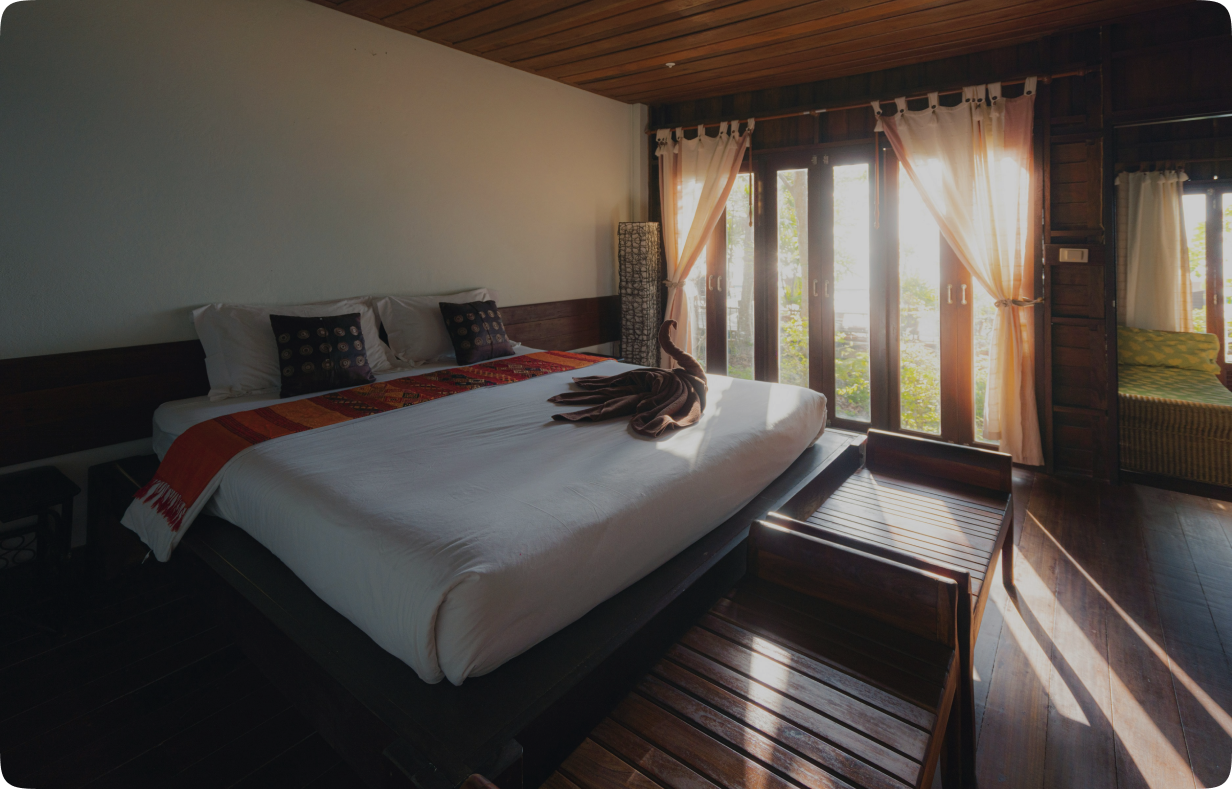
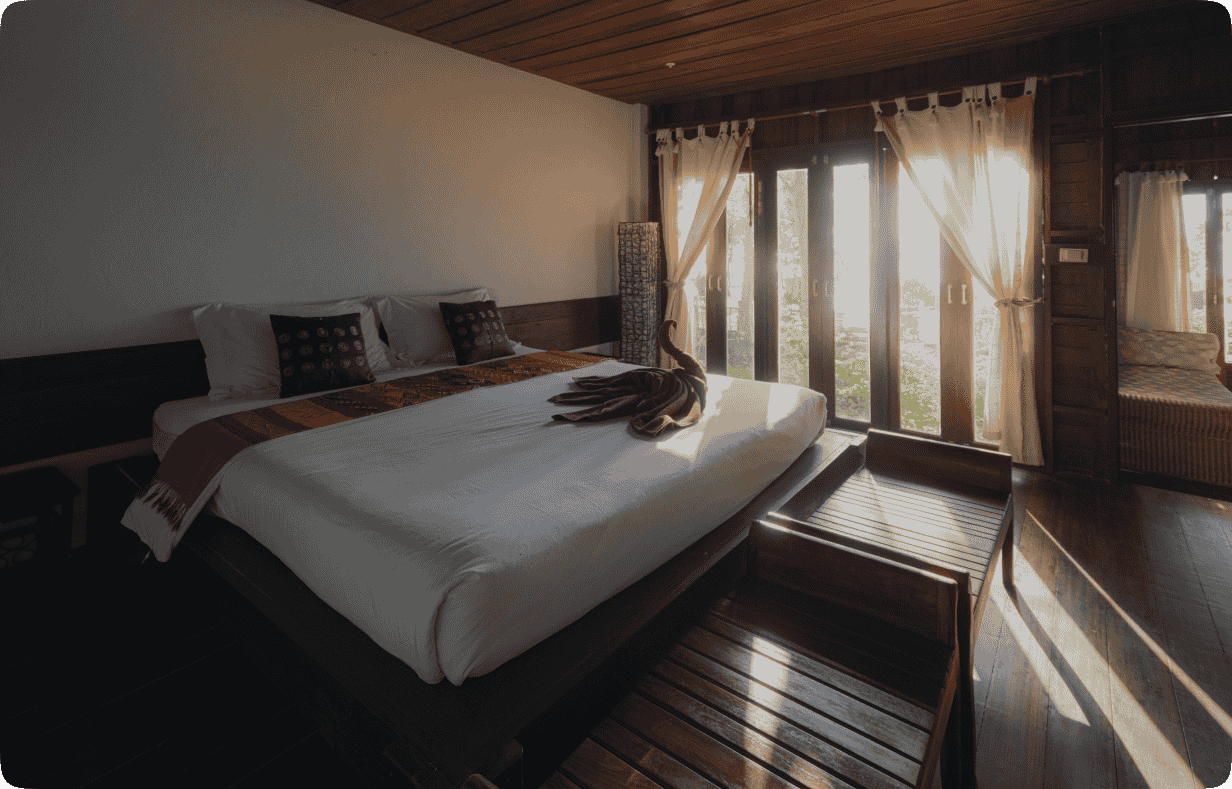
responsive commit

diff --git a/src/components/AppPart.jsx b/src/components/AppPart.jsx
@@ -3,61 +3,63 @@ import Image from 'next/image';
 
 const AppDownloadSection = () => {
   return (
-    <div className="p-8 flex flex-col md:flex-row items-center justify-between gap-12">
+    <div className="p-8 flex flex-col md:flex-row items-center justify-between gap-10 w-full">
       {/* Left side - Phone mockup */}
-      <div className="relative" 
-        style={{
-            height: '30rem',
-            width: '50rem',
-          }}>
+      <div className="relative h-40 md:h-96 w-full">
         <Image
           src="/appp.png"
           alt="App preview"
-          className="object-contain transform"
-          fill
+          width={600} // Mobile size
+          height={600} // Mobile size
           priority
+          className="object-contain" // Different sizes for mobile and desktop
         />
-       
       </div>
 
       {/* Right side - Text and download buttons */}
-      <div className="w-full md:w-1/2 space-y-8">
-        <h2 className="text-5xl font-normal mb-4">Download our App!</h2>
+      <div className="w-full md:w-1/2 space-y-6">
+        <h2 className="text-4xl md:text-5xl font-normal mb-4">Download our App!</h2>
         
-        <div className="space-y-4">
-          <h3 className="text-4xl font-normal">Unlock Convenience</h3>
-          <p className="text-2xl text-gray-600">Download Our App Today!</p>
+        <div className="space-y-2">
+          <h3 className="text-3xl md:text-4xl font-normal">Unlock Convenience</h3>
+          <p className="text-xl md:text-2xl text-gray-600">Download Our App Today!</p>
         </div>
 
         {/* Download buttons */}
         <div className="flex flex-col sm:flex-row gap-4">
           {/* App Store Button */}
           <a 
-  href="https://play.google.com/store/apps/details?id=com.tech.myperfectpg&pcampaignid=web_share" 
-  target="_blank" 
-  rel="noopener noreferrer"
-  className="flex items-center justify-center gap-3 bg-black text-white px-6 py-3 rounded-xl hover:bg-gray-800 transition-colors"
->
-  <svg viewBox="0 0 24 24" className="w-8 h-8 fill-current" xmlns="http://www.w3.org/2000/svg">
-    <path d="M18.71 19.5c-.83 1.24-1.71 2.45-3.05 2.47-1.34.03-1.77-.79-3.29-.79-1.53 0-2 .77-3.27.82-1.31.05-2.3-1.32-3.14-2.53C4.25 17 2.94 12.45 4.7 9.39c.87-1.52 2.43-2.48 4.12-2.51 1.28-.02 2.5.87 3.29.87.78 0 2.26-1.07 3.81-.91.65.03 2.47.26 3.64 1.98-.09.06-2.17 1.28-2.15 3.81.03 3.02 2.65 4.03 2.68 4.04-.02.07-.42 1.44-1.38 2.83M13 3.5c.73-.83 1.94-1.46 2.94-1.5.13 1.17-.34 2.35-1.04 3.19-.69.85-1.83 1.51-2.95 1.42-.15-1.15.41-2.35 1.05-3.11z"/>
-  </svg>
-  <div className="text-left">
-    <div className="text-xs">Download on the</div>
-    <div className="text-xl font-semibold">App Store</div>
-  </div>
-</a>
-
-
-          {/* Play Store Button */}
-        <a href="https://play.google.com/store/apps/details?id=com.tech.myperfectpg&pcampaignid=web_share" target="_blank" rel="noopener noreferrer"><button className="flex items-center justify-center gap-3 bg-black text-white px-6 py-3 rounded-xl hover:bg-gray-800 transition-colors">
+            href="https://apps.apple.com/us/app/id123456789" // Replace with actual App Store URL
+            target="_blank" 
+            rel="noopener noreferrer"
+            className="flex items-center justify-center gap-3 bg-black text-white px-6 py-3 rounded-xl hover:bg-gray-800 transition-colors"
+          >
+            {/* SVG Icon for App Store */}
             <svg viewBox="0 0 24 24" className="w-8 h-8 fill-current" xmlns="http://www.w3.org/2000/svg">
-              <path d="M3 20.5v-17c0-.76.44-1.41 1.12-1.71L16.25 12 4.12 22.21C3.44 21.91 3 21.26 3 20.5zm18.11-8.5L19 10.16 16.25 12l2.75 1.84 2.11-1.84zM14.62 18.78l-10.5 6.07c.22.08.46.15.71.15.7 0 1.32-.38 1.65-.99l8.14-4.73v-.5zm0-13.56v-.5L4.12 1.99C3.79 1.38 3.17 1 2.47 1c-.25 0-.49.07-.71.15l10.86 6.07z"/>
+              <path d="M18.71 19.5c-.83 1.24-1.71 2.45-3.05 2.47-1.34.03-1.77-.79-3.29-.79-1.53 0-2 .77-3.27.82-1.31.05-2.3-1.32-3.14-2.53C4.25 17 2.94 12.45 4.7 9.39c.87-1.52 2.43-2.48 4.12-2.51 1.28-.02 2.5.87 3.29.87.78 0 2.26-1.07 3.81-.91.65.03 2.47.26 3.64 1.98-.09.06-2.17 1.28-2.15 3.81.03 3.02 2.65 4.03 2.68 4.04-.02.07-.42 1.44-1.38 2.83M13 3.5c.73-.83 1.94-1.46 2.94-1.5.13 1.17-.34 2.35-1.04 3.19-.69.85-1.83 1.51-2.95 1.42-.15-1.15.41-2.35 1.05-3.11z"/>
             </svg>
             <div className="text-left">
-              <div className="text-xs">GET IT ON</div>
-              <div className="text-xl font-semibold">Google Play</div>
+              <div className="text-xs">Download on the</div>
+              <div className="text-xl font-semibold">App Store</div>
             </div>
-          </button>
+          </a>
+
+          {/* Play Store Button */}
+          <a 
+            href="https://play.google.com/store/apps/details?id=com.tech.myperfectpg&pcampaignid=web_share" 
+            target="_blank" 
+            rel="noopener noreferrer"
+          >
+            <button className="flex items-center justify-center gap-3 bg-black text-white px-6 py-3 rounded-xl hover:bg-gray-800 transition-colors">
+              {/* SVG Icon for Play Store */}
+              <svg viewBox="0 0 24 24" className="w-8 h-8 fill-current" xmlns="http://www.w3.org/2000/svg">
+                <path d="M3 20.5v-17c0-.76.44-1.41 1.12-1.71L16.25 12 4.12 22.21C3.44 21.91 3 21.26 3 20.5zm18.11-8.5L19 10.16 16.25 12l2.75 1.84 2.11-1.84zM14.62 18.78l-10.5 6.07c.22.08.46.15.71.15.7 0 1.32-.38 1.65-.99l8.14-4.73v-.5zm0-13.56v-.5L4.12 1.99C3.79 1.38 3.17 1 2.47 1c-.25 0-.49.07-.71.15l10.86 6.07z"/>
+              </svg>
+              <div className="text-left">
+                <div className="text-xs">GET IT ON</div>
+                <div className="text-xl font-semibold">Google Play</div>
+              </div>
+            </button>
           </a>
         </div>
       </div>
@@ -66,3 +68,4 @@ const AppDownloadSection = () => {
 };
 
 export default AppDownloadSection;
+ 

diff --git a/src/components/Footer.jsx b/src/components/Footer.jsx
@@ -78,6 +78,7 @@ const Footer = () => {
                 width={40}
                 height={40}
                 className="rounded"
+                priority
               />
               <span className="ml-3 text-xl font-semibold">My Perfect PG</span>
             </div>

diff --git a/src/pages/index.jsx b/src/pages/index.jsx
@@ -11,7 +11,9 @@ const index = () => {
     <LandingPage></LandingPage>
     <PopularPGSection></PopularPGSection>
     <StudentSuccessSection></StudentSuccessSection>
+ 
     <AppDownloadSection></AppDownloadSection>
+
     <Footer></Footer>
     </>
   )

diff --git a/src/app/globals.css b/src/app/globals.css
@@ -2,3 +2,5 @@
 @tailwind components;
 @tailwind utilities;
 
+/* globals.css */
+
